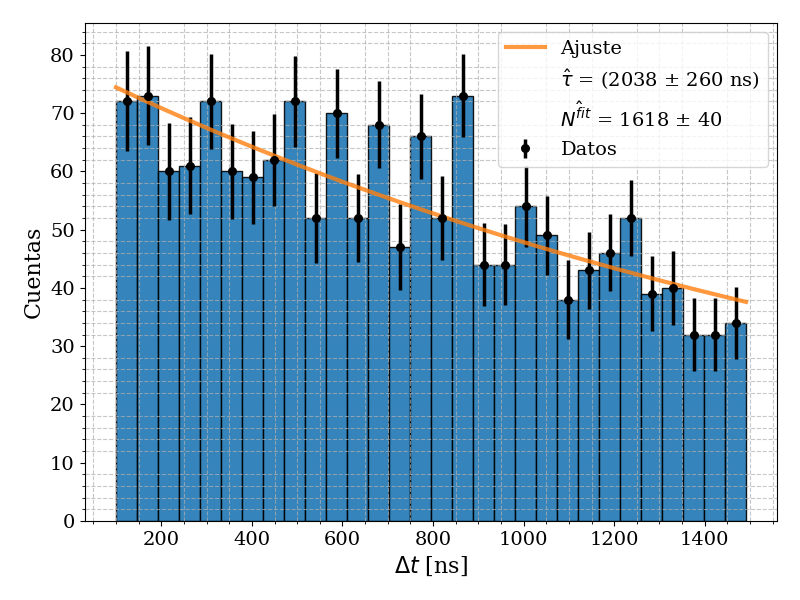
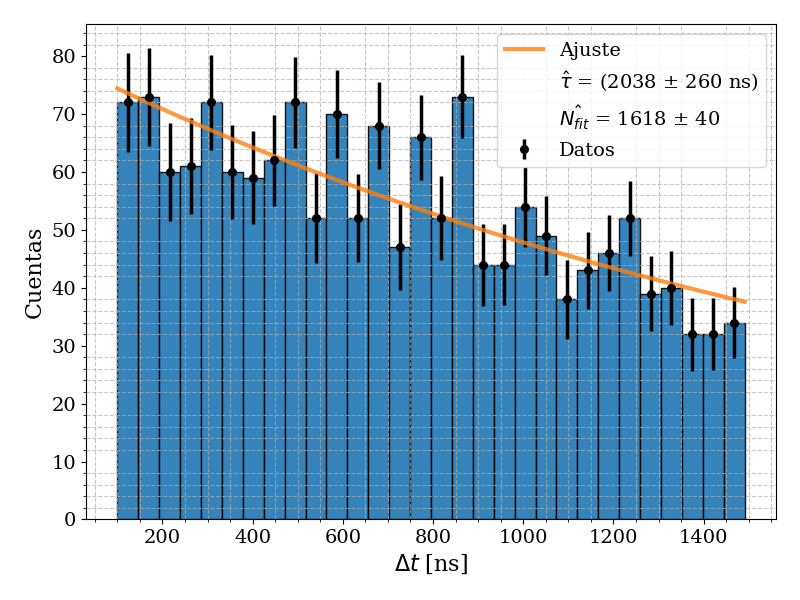
arregle un poco los gráficos

diff --git a/practica 2/Clase 9/procesado_decaimientos_informe.py b/practica 2/Clase 9/procesado_decaimientos_informe.py
@@ -223,7 +223,7 @@ ax1.hist(x_medido, bins = bin_edges, edgecolor='black', alpha=0.9)
 ax1.errorbar(centros_bines,n_obs, yerr=errores_cuentas, fmt='.', color='black', label="Datos")
 ax1.plot(x_fit,pdf_fit * factor_escala,lw=3,alpha=0.8, label="Ajuste")
 ax1.plot([],[], " ", label=r"$\hat{\tau}$ = "f"({tau_fit:.0f} ± {error_tau:.0f} ns)")
-ax1.plot([],[], " ", label=r"$\hat{N^{fit}}$ = "f"{N_fit:.0f} ± {error_N:.0f}")
+ax1.plot([],[], " ", label=r"$\hat{N_{fit}}$ = "f"{N_fit:.0f} ± {error_N:.0f}")
 ax1.set_xlabel("$\Delta t$ [ns]")
 ax1.set_ylabel("Cuentas")
 ax1.legend()
@@ -231,9 +231,6 @@ ax1.grid(False)
 fig1.tight_layout()
 fig1.savefig("decaimientos_ajustados_todos_recortados.png")
 fig1.show()
-
-
-
 #%%
 # ahora queremos testear la bondad del ajuste, para lo cual hacemos simulaciones.
 N_datos = len(x_medido)
@@ -315,7 +312,7 @@ ax.set_xlim(4,66)
 ax.set_ylim(0,0.056)
 ax.tick_params(axis='y', labelsize=12)
 ax.minorticks_on()
-ax.legend()#(fontsize=12)
+ax.legend()
 ax.grid(False)
 fig.tight_layout()
 fig.savefig("pvalor_verosimilitud_todos_recortados_opcion2.png")
